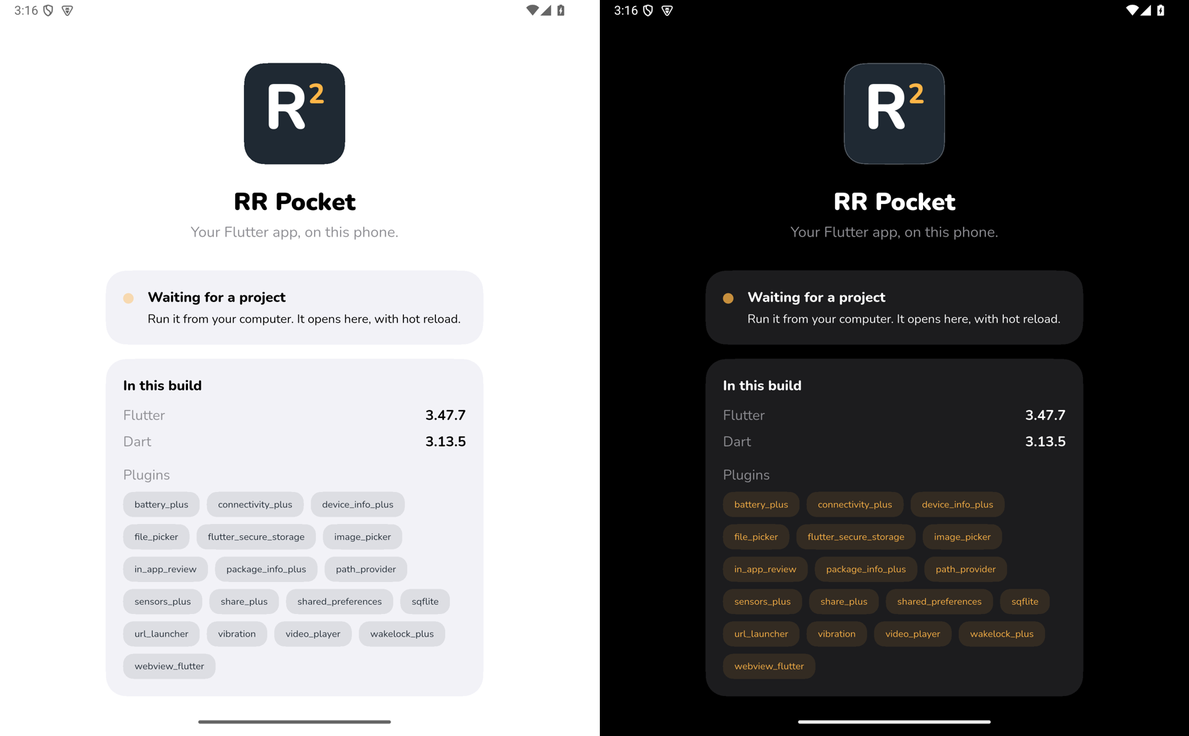
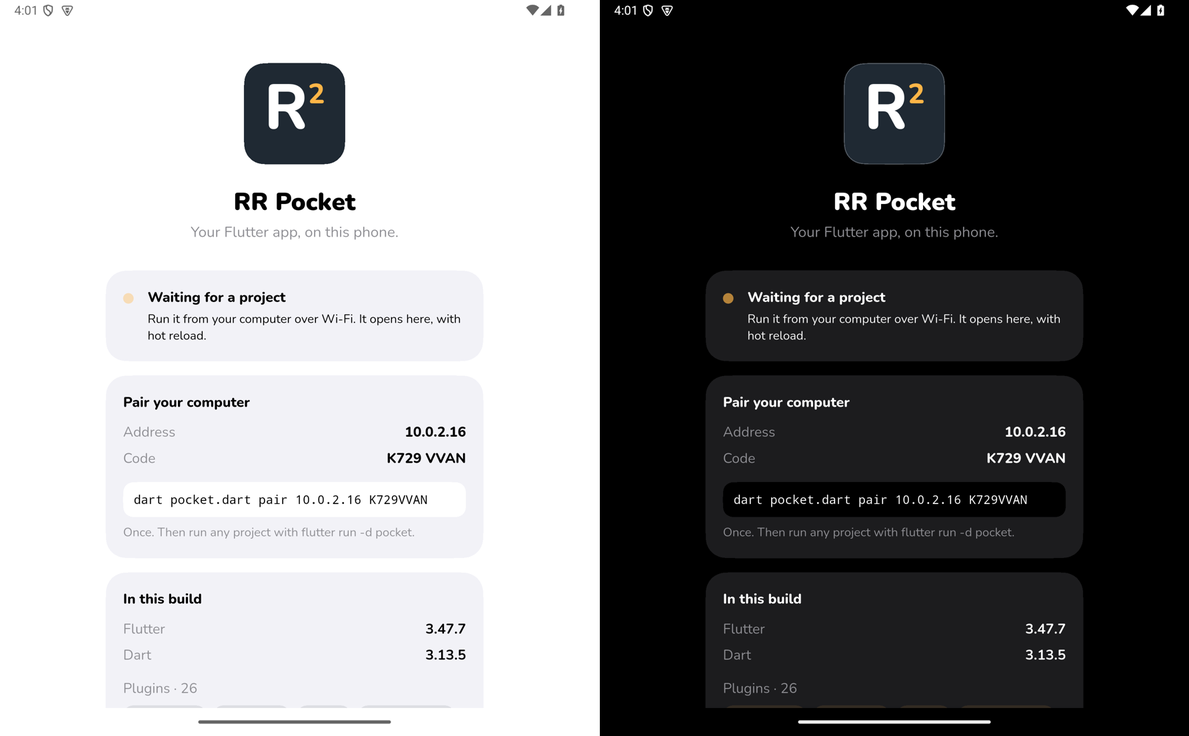
docs: flutter run -d pocket, how and what it took

diff --git a/docs/wifi.md b/docs/wifi.md
@@ -1,0 +1,99 @@
+# `flutter run -d pocket`: no adb, over the network
+
+Built and checked 2026-10-24 on the Android emulator, Flutter 3.47.7.
+
+## How it works
+
+```
+computer                                   phone (RR Pocket)
+flutter run -d pocket
+  └ build bundle (kernel + assets)
+  └ pocket.dart install ──PUT /bundle/*──▶ control server :8100 (Kotlin)
+  └ pocket.dart run ─────POST /run───────▶   runInView(bundle) on its own
+                                              VM service, over HTTP
+    prints the VM service's address  ◀───── {"vmPath": "/<auth>/"}
+    streams GET /logs ◀───────────────────   tails its own log, tag flutter
+  └ DDS, hot reload, devfs ─────────────▶ VM relay :8101 (Kotlin) ─▶ 127.0.0.1
+  └ q: SIGTERM, POST /stop ─────────────▶   recreates the activity
+```
+
+- **Launching is a hot restart.** A fresh engine launch on Android reads
+  assets only from inside the APK, but the engine's `_flutter.runInView`,
+  the call behind hot restart, takes a kernel and an assets folder from the
+  filesystem. RR Pocket calls it on its own VM service with a plain HTTP
+  GET (the VM service answers JSON-RPC as `GET /<auth>/<method>?<params>`),
+  from Kotlin, which outlives the Dart side it replaces. 196 ms.
+- **The engine's snapshots stay on the phone.** The bundle carries
+  `isolate_snapshot_data` and `vm_snapshot_data` for the engine it was built
+  for; `runInView` uses the running engine's, so `install` skips them.
+- **The VM service listens on 127.0.0.1 only.** A byte-for-byte TCP relay
+  on :8101 makes it reachable; HTTP, WebSockets and DDS all go through.
+- **`flutter run` is stock.** `pocket.dart pair` registers a custom device
+  whose commands are `pocket.dart ping | install | run | uninstall`, run by
+  the `dart` that ships with Flutter. `run` prints "The Dart VM service is
+  listening on http://<phone>:8101/<auth>/", which is how the tool finds it,
+  then the app's log lines, which is how the tool shows them.
+- **Versions.** `/hello` reports the Flutter version and engine revision
+  RR Pocket was built with (stamped by `tool/build_apk.sh` through Gradle
+  `resValue`s); `install` compares the engine revision with the SDK's in
+  `$FLUTTER_ROOT/bin/cache/flutter.version.json` and stops with a message
+  when they differ.
+
+## Security
+
+Anyone who can drive the control server can run code in RR Pocket, so:
+
+- An 8-character code from a 32-letter alphabet (40 bits) guards every
+  request, compared in constant time; ten wrong codes lock it for five
+  minutes. It is made once and kept until the app's data is cleared.
+- The relay carries the VM service, whose URL holds its own random auth
+  code. The computer learns it only from `/run`, which needs the pairing
+  code.
+- Plain HTTP on the LAN: the code crosses the network in the clear. Fine
+  for a home or office network with a dev tool; TLS with a pinned key from
+  the pairing is the next step if it ships wider.
+
+## What it took
+
+- **FlutterJNI reports the wrong VM service once the tool attaches.**
+  `FlutterJNI.getVMServiceUri()` changes to the address of the tool's DDS,
+  which lives on the computer. The relay read it per connection, so after
+  DDS started, every new connection went to a dead port on the phone. The
+  tool's devfs uploads go over new connections, so hot reload said "Error
+  while starting Kernel isolate task" (no incremental kernel arrived) and
+  hot restart "Could not prepare isolate". The Dart VM lives as long as the
+  process (one "listening on" per process, across activity recreates), so
+  RR Pocket keeps the first address it sees, read before any DDS can exist.
+- **Logs.** DDS refuses to start while another client is attached, so the
+  helper can't subscribe to the VM service for output. Dart's `print` goes
+  to the process's log under the `flutter` tag, and an app may read its own
+  log: `/logs` runs `logcat --pid=<own pid> flutter:V *:S` and streams it.
+- **Cleartext.** Android blocks plain HTTP, even to 127.0.0.1, unless the
+  app allows it; RR Pocket does (`usesCleartextTraffic`), which also lets
+  projects call their dev servers over HTTP.
+- **A custom device is `linux-x64` or `linux-arm64` to the tool.** The
+  bundle it builds is platform-neutral debug kernel, so `linux-arm64` is
+  only a label here; the plugin registrant branches at run time and picks
+  Android.
+
+## Numbers
+
+Emulator, probe app (26 plugins, 2,380 libraries, 81 MB kernel), warm
+build cache; the network is `adb forward` of :8100 and :8101 only.
+
+| | |
+|---|---|
+| `flutter run -d pocket` to app started | 4.7-6.6 s |
+| Hot reload, one edited library | 0.34-0.50 s |
+| Hot restart | 1.0-1.1 s |
+
+## Open
+
+- A real phone on real Wi-Fi: upload time for the 81 MB kernel (gzip level
+  1 on the way), and whether phones' Wi-Fi isolation blocks :8100.
+- Finding the phone without typing its address (mDNS, as Lumide's sharing
+  does).
+- Checking the project's plugins against RR Pocket's in `install` (today
+  that is `tool/pin_plugins.py`, run by hand).
+- `pocket.dart` lives in this repo; it wants to be a pub package or part of
+  Lumide's Raccoon tooling.

diff --git a/README.md b/README.md
@@ -1,29 +1,30 @@
 # RR Pocket
 
 Run your Flutter app on your Android phone with just the Flutter SDK. No
-Android SDK, no Gradle build. Like Expo Go, for Flutter.
+Android SDK, no adb, no Gradle build. Like Expo Go, for Flutter.
 
 ![RR Pocket, light and dark](branding/screenshot.png)
 
 RR Pocket is an Android app with Flutter's debug engine and a set of plugins
-built in. The Flutter tool compiles your project and sends it over; the app
-restarts into it. Hot reload works as usual.
+built in. `flutter run -d pocket` compiles your project and sends it over
+Wi-Fi; the app restarts into it. Hot reload works as usual.
 
 Private for now. Design and decisions: note 025 in `project_raccoon`.
 
 ## Status
 
-The spike passed on the Android emulator (Flutter 3.47.7, 2026-10-24):
+Works on the Android emulator (Flutter 3.47.7, 2026-10-24):
 
-- A project with no `android/` folder runs in the prebuilt app. Launch
-  579-821 ms, hot reload 173-211 ms.
-- All 26 plugins the app carries answer from such a project, with no change
-  to its code (`docs/plugins.md`). The arm64 APK is 84.2 MB.
+- **`flutter run -d pocket` over the network, no adb.** A project with no
+  `android/` folder launches in 4.7-6.6 s (build, upload, start); hot reload
+  0.34-0.50 s, hot restart 1.0-1.1 s; its `print` output shows in
+  `flutter run`; quitting returns the phone to RR Pocket's screen.
+- All 26 plugins the app carries answer, with no change to the project's
+  code (`docs/plugins.md`). The arm64 APK is 84.2 MB.
 - **The app ships non-debuggable, as Play requires, and the debug engine
   still runs.**
 
-Next: reach the phone over Wi-Fi with no adb, as a custom device
-(`flutter run -d pocket`).
+Not yet tried on a real phone over real Wi-Fi.
 
 ## Build
 
@@ -38,23 +39,28 @@ Flutter's Gradle plugin ties the engine to the debuggable flag, so the script
 builds debug, then `tool/undebug_manifest.py` turns the flag off and the APK
 is signed again. The home screen shows the Flutter version it stamps in.
 
-## Try it
+## Use it
+
+On the phone, open RR Pocket. It shows its address and a pairing code. On
+the computer, once:
 
 ```sh
-adb install build/rr_pocket-x64.apk
-adb shell am start -n io.sofluffy.raccoon.runtime.pocket/.MainActivity
-adb logcat | grep 'VM service'     # copy the URL
-python3 tool/drive_attach.py <project> <URL> [device]
+dart tool/pocket.dart pair <address> <code>
 ```
 
-The project needs no code change. Its plugins must be pinned to the versions
-RR Pocket carries:
+That registers the `pocket` device with your Flutter SDK. Then, from any
+project:
 
 ```sh
-python3 tool/pin_plugins.py <project> && (cd <project> && flutter pub get)
+python3 tool/pin_plugins.py . && flutter pub get   # match RR Pocket's plugins
+flutter run -d pocket
 ```
 
-`probe/` is such a project: it calls every bundled plugin and logs
+The project's Flutter version must be RR Pocket's (the home screen says
+which); `flutter run` stops with a message when it isn't. How it works:
+`docs/wifi.md`.
+
+`probe/` is a project that calls every bundled plugin and logs
 `PROBE <plugin> ok …` or `MISSING`. After changing the plugin set, install
 the new APK and run `tool/run_probe.sh`; it fails on any `MISSING`.
 
@@ -73,5 +79,9 @@ the new APK and run `tool/run_probe.sh`; it fails on any `MISSING`.
 - `docs/plugins.md`: which plugins to bundle and why, and what Tier 1 cost.
 - `tool/pin_plugins.py`: pins a project to the plugin versions RR Pocket
   carries.
-- `tool/drive_attach.py`: attaches from a project, restarts into it, edits,
-  hot reloads, and times both.
+- `app/android/.../pocket/`: the Kotlin side a computer talks to: the
+  pairing code, the control server, the VM service relay.
+- `tool/pocket.dart`: the computer's side, behind the `pocket` device.
+- `docs/wifi.md`: how `flutter run -d pocket` works, and what it took.
+- `tool/drive_attach.py`: the adb-based spike driver: attaches from a
+  project, restarts into it, edits, hot reloads, and times both.
